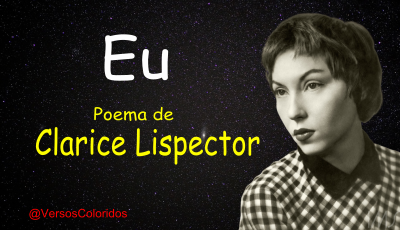
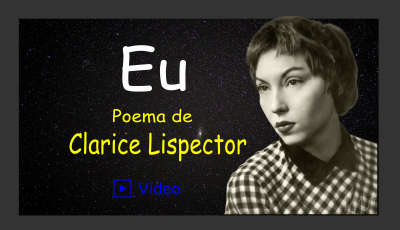
reformulando o site

diff --git a/index.html b/index.html
@@ -59,10 +59,9 @@
             <div class="row">
                <div class="col-md-8 offset-md-2">
                  <div class="text-center">
-                   <h2>Bem-vindo ao Versos Coloridos!</h2>
+                   <h3>Bem-vindo ao Versos Coloridos!</h3>
                    <h5>
-                     Explore nossa coleção de Frases, <br>poemas, mensagens e textos.<br>
-                     Sinta-se em casa. Sinta-se inspirado.</h5>
+                     Coleção de Poemas, Frases, mensagens e textos.<br> 
                  </div>
                </div>
              </div>
@@ -114,65 +113,9 @@
                       <span class=""><a href="/autores/a/" class="btn btn-primary">Mais Autores...</a></span>
                    </div>
                </div>
-            </div>
+            </div>   
 
-            <div class="card bg-white mt-4 mb-0 sombra_0">
-               <div class="card-body m-0 p-3">
-                  <!-- Corpo -->
-                  <p class="card-text font_1 m-0" id="frase4">
-                     Da mais alta janela da minha casa<br>
-                     Com um lenço branco digo adeus<br>                                 
-                     Aos meus versos que partem para a humanidade<br>
-                     <a href="poemas/fernando_pessoa/1/" class="ml-0"><i>Fernando Pessoa</i><a></a>💗
-                  </p> 
-                  <span><button class="btn btn_copiar_verso">Copiar</button></span>
-                  <p class="mensagem"></p>
-               </div> 
-            </div>  
-
-             
-            <div class="mt-2 mb-0 d-block d-lg-none"> <!-- Dispositvos - Pequenos -->
-               <div class="m-0 p-3 text-center">
-                  <span class="font_0">PUBLICIDADE</span>                  
-                  <ins class="adsbygoogle"
-                     style="display:block"
-                     data-ad-format="fluid"
-                     data-ad-layout-key="-fb+5w+4e-db+86"
-                     data-ad-client="ca-pub-2582645504069233"
-                     data-ad-slot="8188250620"></ins>
-                  <script>
-                     (adsbygoogle = window.adsbygoogle || []).push({});
-                  </script>
-               </div>
-           </div>
-
-            <div class="card bg-white mt-2 mb-0">
-               <div class="card-body m-0 p-3">
-                  <!-- Corpo -->
-                  <p class="card-text font_1 m-0" id="frase4">
-                     Liberdade é pouco.<br> 
-                     O que desejo ainda não tem nome.<br> 
-                     <a href="poemas/clarice_lispector/1/" class="ml-0"><i>Clarice Lispector</i><a></a> 💗
-                  </p> 
-                  <span><button class="btn btn_copiar_verso">Copiar</button></span>
-                  <p class="mensagem"></p>
-               </div> 
-            </div>
             
-
-            <div class="card bg-white mt-2 mb-0">
-               <div class="card-body m-0 p-3">
-                  <!-- Corpo -->
-                  <p class="card-text font_1 m-0" id="frase4">
-                     Fiz a escalada da montanha da vida removendo pedras e plantando flores.<br>
-                     <a href="poemas/cora_coralina/1/" class="ml-0"><i>Cora Coralina</i><a></a> 🌼
-                  </p> 
-                  <span><button class="btn btn_copiar_verso">Copiar</button></span>
-                  <p class="mensagem"></p>
-               </div> 
-            </div>
- 
-
             
             <div class="row bg-light"> <!-- Dispositvos - GRANDES -->
                <div class="col-12 text-center">  
@@ -180,21 +123,7 @@
                   <div class="h4 text-center mt-2 mb-2" id="div_frase_poetica"></div>
                </div>
                
-               <div class="col-12 text-center">  
-                  <br>
-                  <span class="font_0">Publicidade</span>                  
-                  <!-- ads_rodape_1 -->
-                  <ins class="adsbygoogle"
-                        style="display:block"
-                        data-ad-client="ca-pub-2582645504069233"
-                        data-ad-slot="4671607639"
-                        data-ad-format="auto"
-                        data-full-width-responsive="true"></ins>
-                  <script>
-                        (adsbygoogle = window.adsbygoogle || []).push({});
-                  </script>  
-                  <br>  
-               </div>
+               
 
                <div class="container-fluid bg-light mt-2 mb-2 border">
                   <div class="h5 text-center mt-2 mb-2" id="div_frase"></div>
@@ -254,22 +183,6 @@
                </div>  
             </div>  
 
-            <div class="mt-2 mb-0 d-none d-lg-block"> <!-- dispositivos Grandes -->
-               <div class="m-0 p-3 text-center">
-                  <span class="font_0">Publicidade</span>
-                  <!-- ads_quadrado-1 -->
-                  <ins class="adsbygoogle"
-                     style="display:block"
-                     data-ad-client="ca-pub-2582645504069233"
-                     data-ad-slot="8477839329"
-                     data-ad-format="auto"
-                     data-full-width-responsive="true"></ins>
-                  <script>
-                     (adsbygoogle = window.adsbygoogle || []).push({});
-                  </script>
-               </div> 
-            </div>
-
             <div class="card bg-white mt-2 mb-0" style="background-image: url('/images/posts/fundo-poema.png'); background-size: 100%; background-repeat: no-repeat; color: rgb(29, 5, 5);"> 
                <div class="card-body m-0 p-3">
                   <!-- Corpo -->
@@ -289,34 +202,8 @@
                   </p> 
                </div> 
             </div>
-            <div class="card bg-white mt-2 mb-0">
-               <div class="card-body m-0 p-3">
-                  <!-- Corpo -->
-                  <p class="card-text font_1 m-0" id="frase4">
-                     Aprendi com as primaveras
-                     a deixar-me cortar
-                     e a voltar sempre inteira..
-                      🌼<br> 
-                     <a href="poemas/cecilia_meireles/1/" class="ml-0"><i>Cecília Meireles</i><a></a>
-                  </p> 
-                  <span><button class="btn btn_copiar_verso">Copiar</button></span>
-                  <p class="mensagem"></p>
-               </div> 
-            </div> 
-            <div class="card bg-white mt-2 mb-0">
-               <div class="card-body m-0 p-3">
-                  <!-- Corpo -->
-                  <p class="card-text font_1 m-0" id="frase4">
-                     Nega-me o pão, o ar, 
-                     a luz, a primavera,
-                     mas nunca o teu riso,
-                     porque então morreria.💗<br> 
-                     <a href="poemas/pablo_neruda/1/" class="ml-0"><i>Pablo Neruda</i><a></a>
-                  </p> 
-                  <span><button class="btn btn_copiar_verso">Copiar</button></span>
-                  <p class="mensagem"></p>
-               </div> 
-            </div>
+             
+             
          </div>
       </div>        
    </div>

diff --git a/poemas/clarice_lispector/1/index.html b/poemas/clarice_lispector/1/index.html
@@ -211,23 +211,16 @@
                            </div>
                         </li>                        
          
-                         <!-- Publicidade ads-poemas-01 -->
-                         <div class="mt-2 mb-0">
-                           <div class="m-0 p-3 text-center">
-                           <span class="font_0">PUBLICIDADE</span>
-                              <script async src="https://pagead2.googlesyndication.com/pagead/js/adsbygoogle.js?client=ca-pub-2582645504069233"
-                                 crossorigin="anonymous"></script>
-                              <ins class="adsbygoogle"
-                                 style="display:block"
-                                 data-ad-format="fluid"
-                                 data-ad-layout-key="-ef+6k-30-ac+ty"
-                                 data-ad-client="ca-pub-2582645504069233"
-                                 data-ad-slot="6243030980"></ins>
-                              <script>
-                                 (adsbygoogle = window.adsbygoogle || []).push({});
-                              </script>
-                           </div>
-                        </div>
+                        <div class="container mt-3 p-0">
+                           <a href="https://www.youtube.com/watch?v=TJIHymyZdTY" style="display: block;">
+                               <div class="card shadow-sm m-0 p-0" style="position: relative;">
+                                   <div class="embed-responsive embed-responsive-16by9">
+                                       <div class="embed-responsive-item" style="background-image: url('/images/capas/capa_clarice_lispector_eu.png'); background-size: cover; background-repeat: no-repeat; background-position: center;"></div>
+                                   </div> 
+                               </div>
+                           </a>
+                       </div>
+
                         <li class="list-group-item mt-4 sombra_0" style="line-height: 1; margin:0;">
                            <a href="#" class="clicavel" data-poema-div="poema-div-3">Dá-me a tua mão</a>
                            <div id="poema-div-3" class="poema-div" >

diff --git a/teste.html b/teste.html
@@ -12,7 +12,7 @@ Esses são alguns dos tipos de haicais mais comuns, mas há muitas variações e
 
 
 
-
+Fragmentos de Tempo
 
 
 
